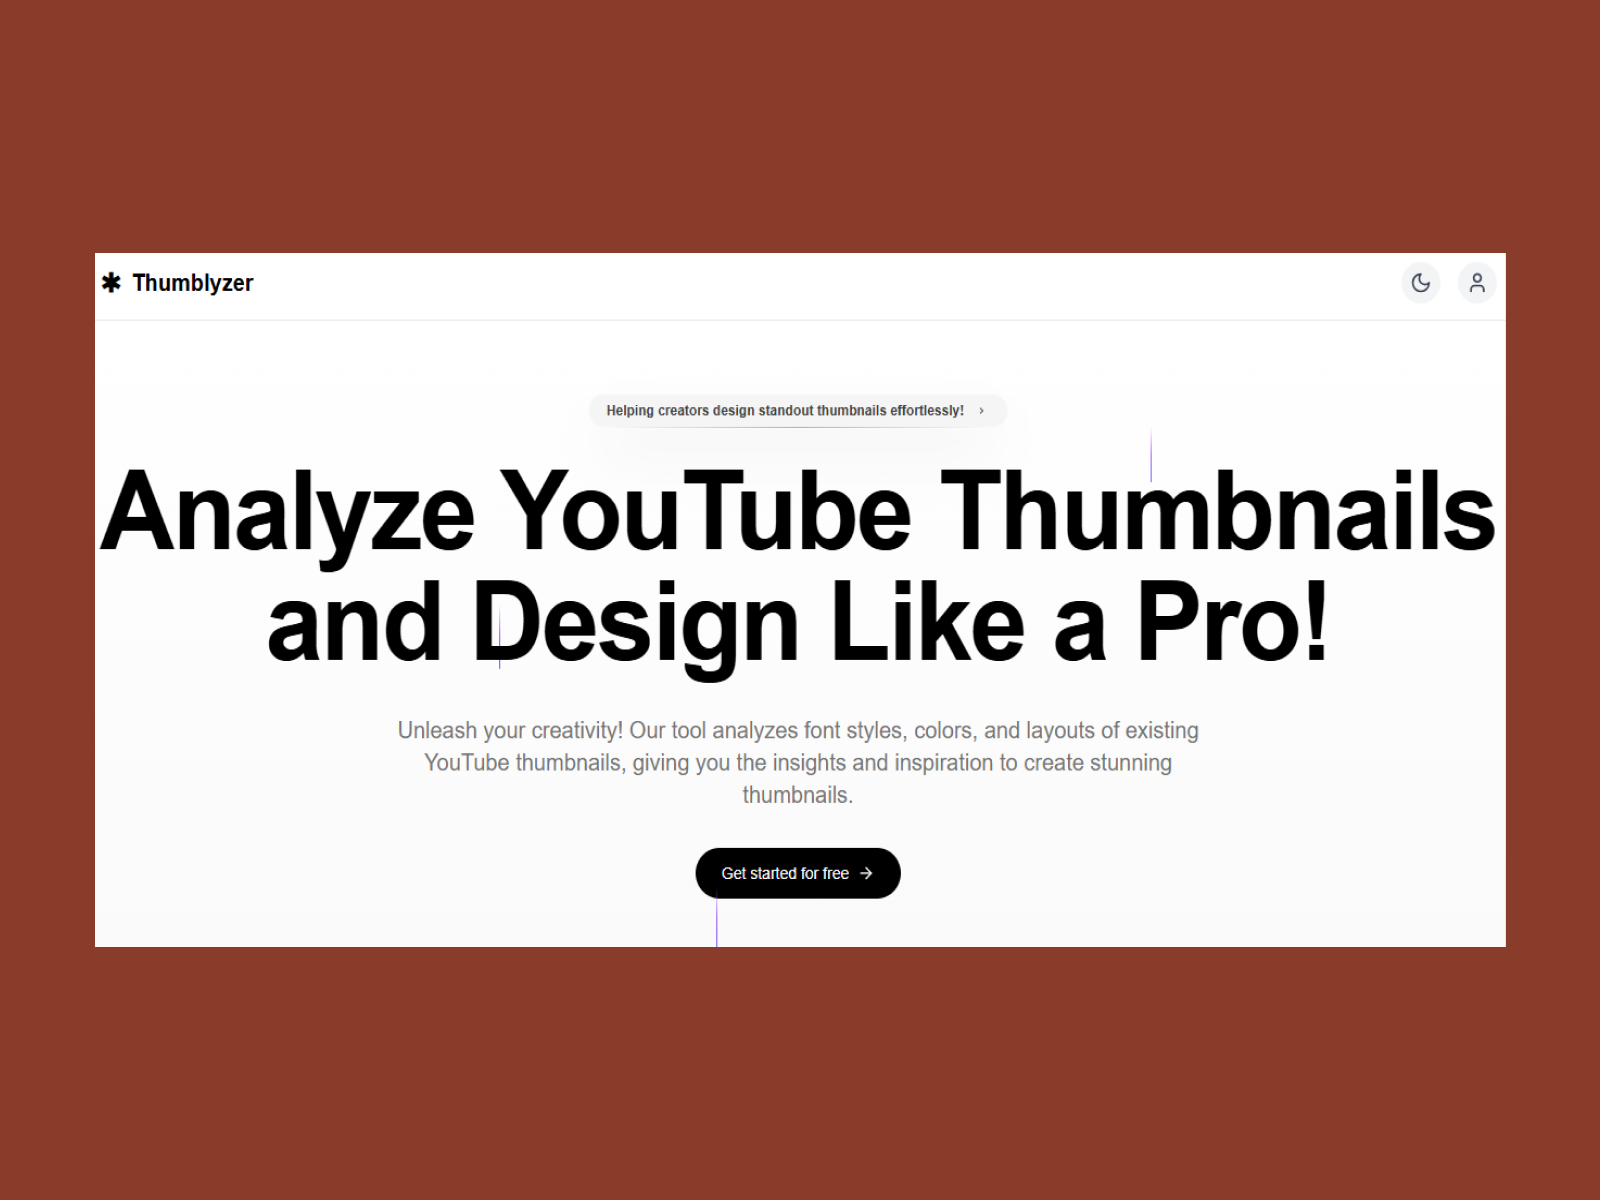
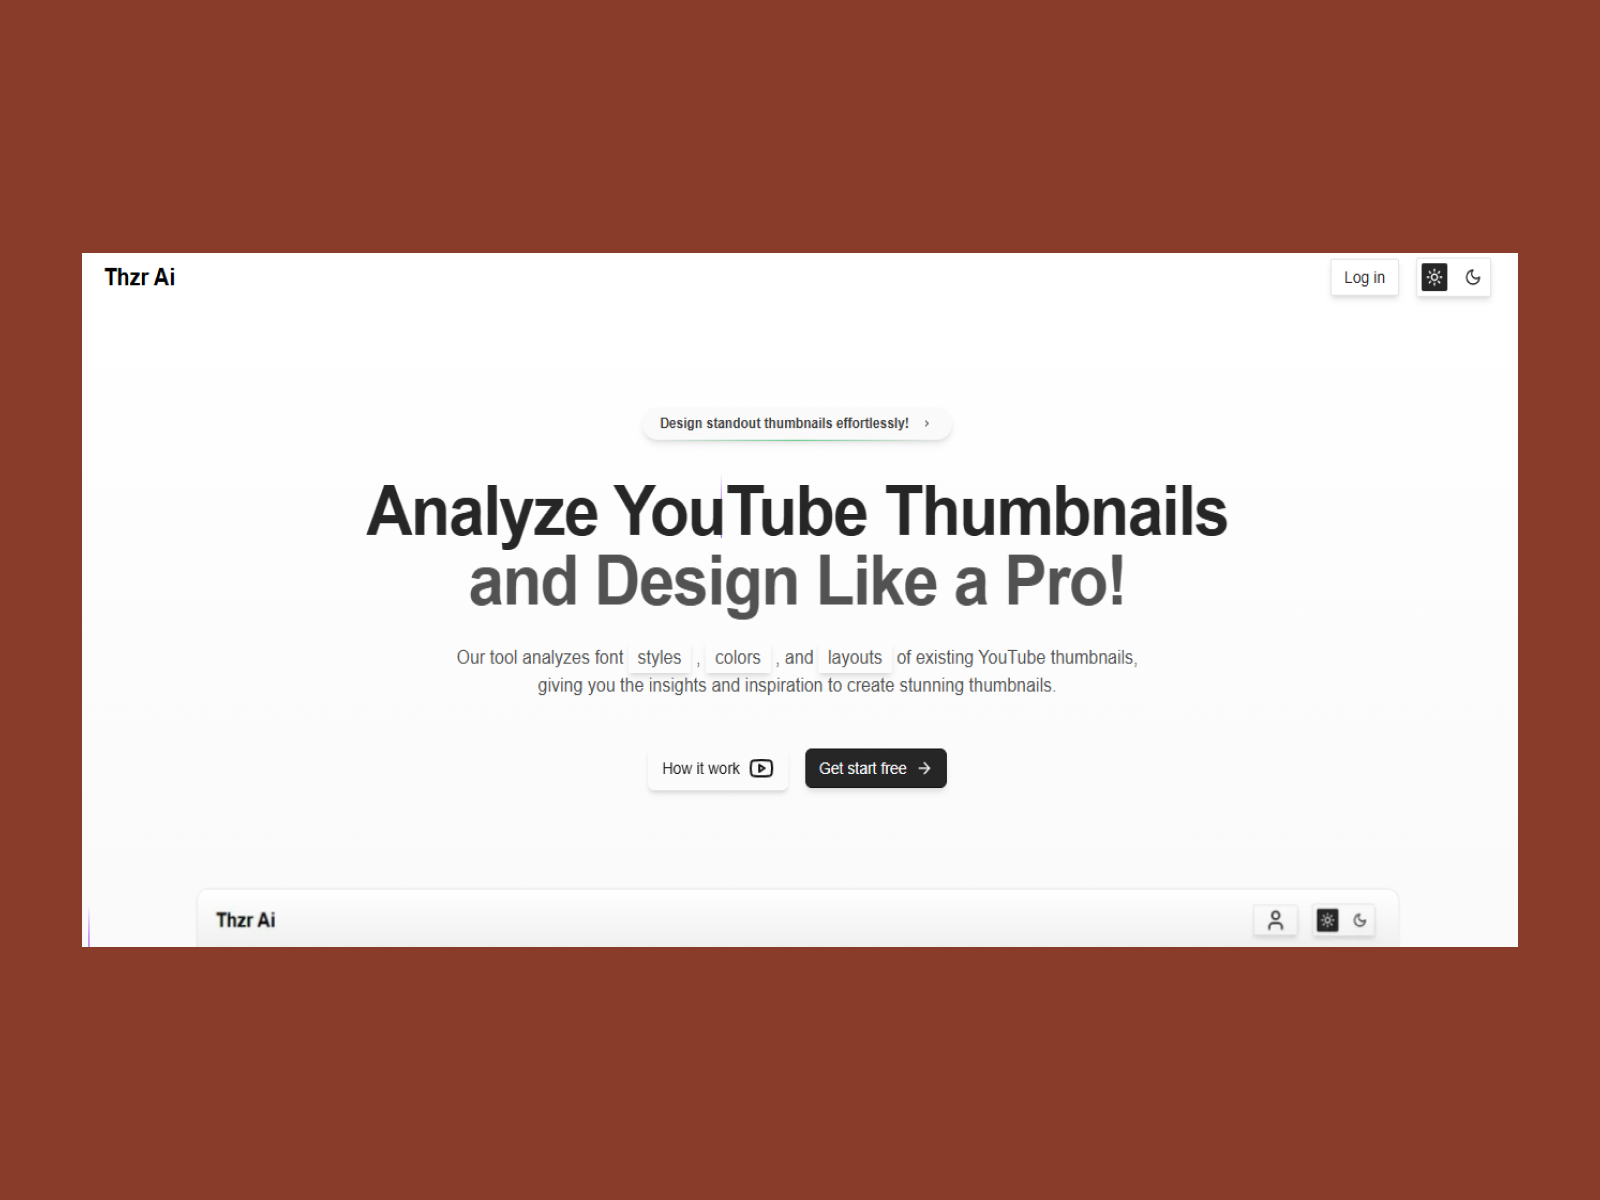
added new projects

Changed region(s): [[0.0312, 0.2158, 0.9688, 0.8017], [0.8125, 0.74, 0.8438, 0.8017], [0.125, 0.74, 0.1875, 0.7708]]

diff --git a/lib/data.js b/lib/data.js
@@ -17,10 +17,16 @@ export const  services = [
 
   export const projectData = [
     {
+      title: "Yadxy",
+      src: "ydxy.png",
+      color: "#814C5A",
+      href: "https://yadxy.com"
+    }, 
+    {
       title: "Thumbnail Analyzer",
       src: "than.png",
       color: "#D65A31",
-      href: "https://thumblyzer.vercel.app"
+      href: "https://thzrai.vercel.app"
     }, 
     {
       title:"Parther Blog",
@@ -28,24 +34,24 @@ export const  services = [
       color: "#0F8274",
       href: "https://blog.parther.in"
     },
-    {
-      title: "Teacher Review System",
-      src: "vGoc.png",
-      color: "#5C4033",
-      href: "https://vgc-trs.vercel.app"
-    },
+    // {
+    //   title: "Teacher Review System",
+    //   src: "vGoc.png",
+    //   color: "#5C4033",
+    //   href: "https://vgc-trs.vercel.app"
+    // },
     {
       title: "ShutterSaga Studios",
       src: "shuSag.png",
       color: "#B4543E",
       href: "https://shuttersaga-studios.vercel.app"
     },
-    {
-      title: "GoAssignr",
-      src: "goass.png",
-      color: "#3A4F77",
-      href: "https://goassignr.vercel.app"
-    },
+    // {
+    //   title: "GoAssignr",
+    //   src: "goass.png",
+    //   color: "#3A4F77",
+    //   href: "https://goassignr.vercel.app"
+    // },
     {
       title: "Portfolio",
       src: "vsp.png",

diff --git a/app/layout.js b/app/layout.js
@@ -16,6 +16,7 @@ export const metadata = {
   robots: "index, follow",
   author: "Parther",
   metadataBase: new URL("https://parther.in"),
+  
   openGraph: {
     title: "Parther - Freelance Designer & Developer",
     description:
